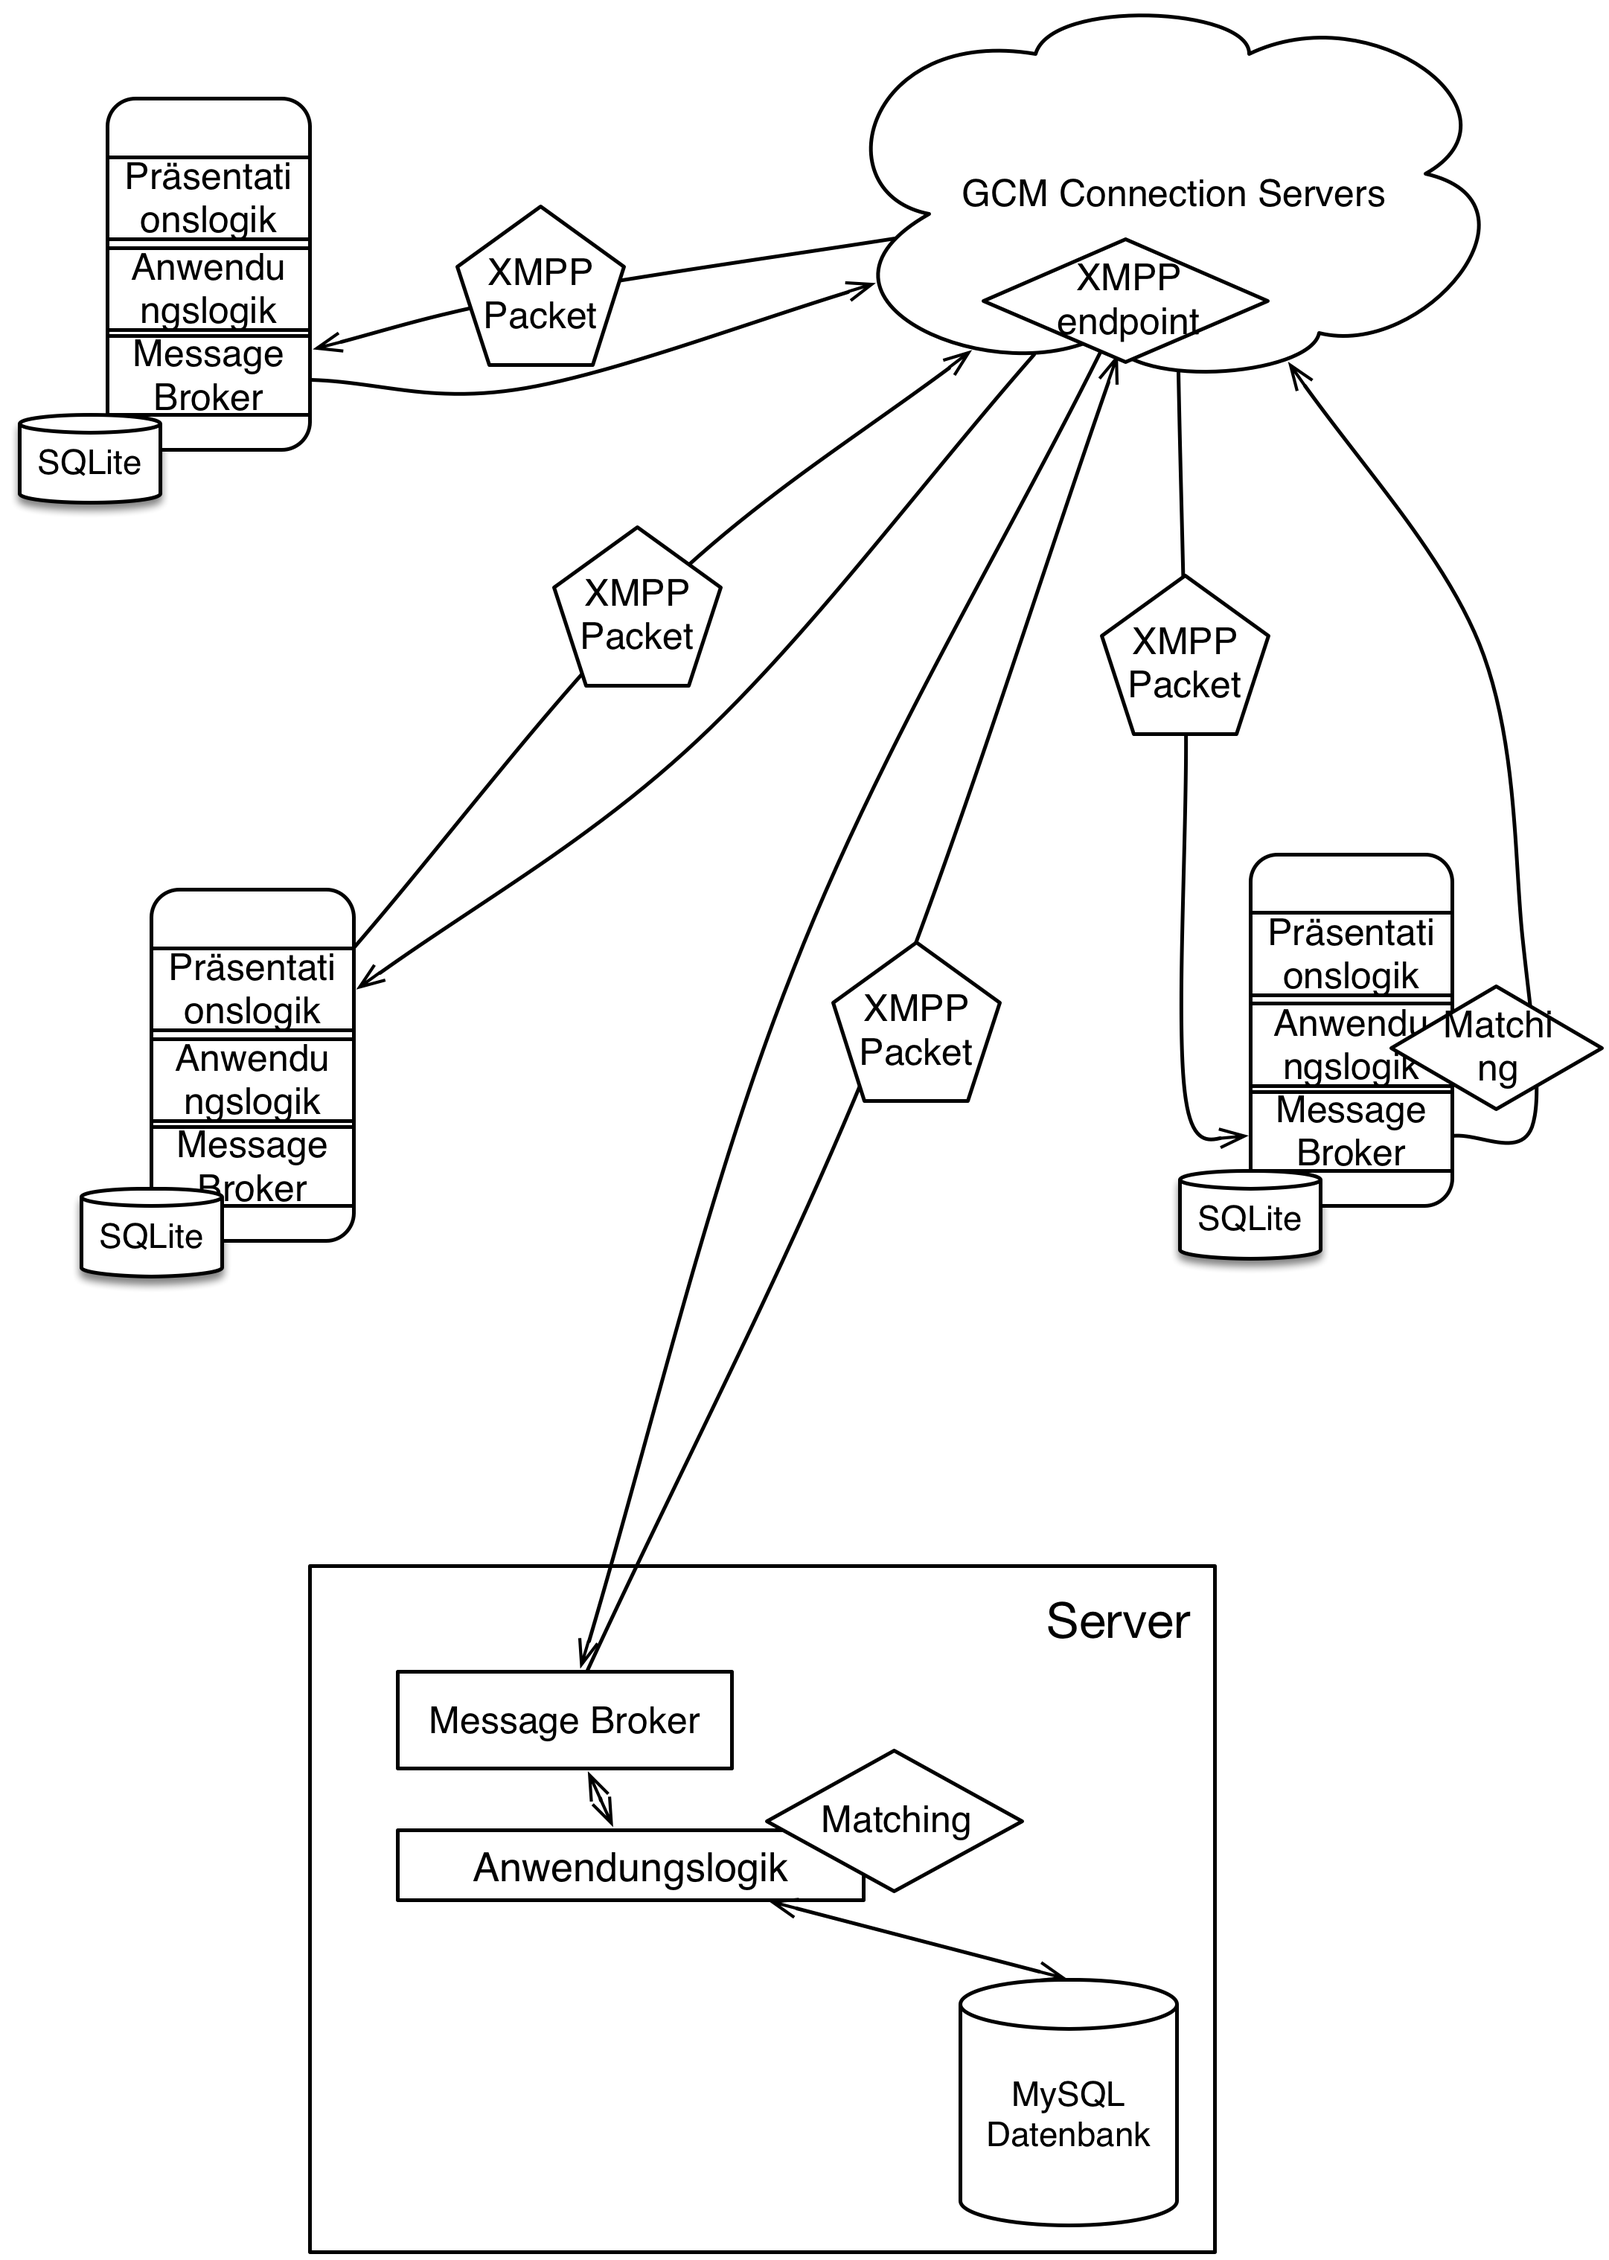
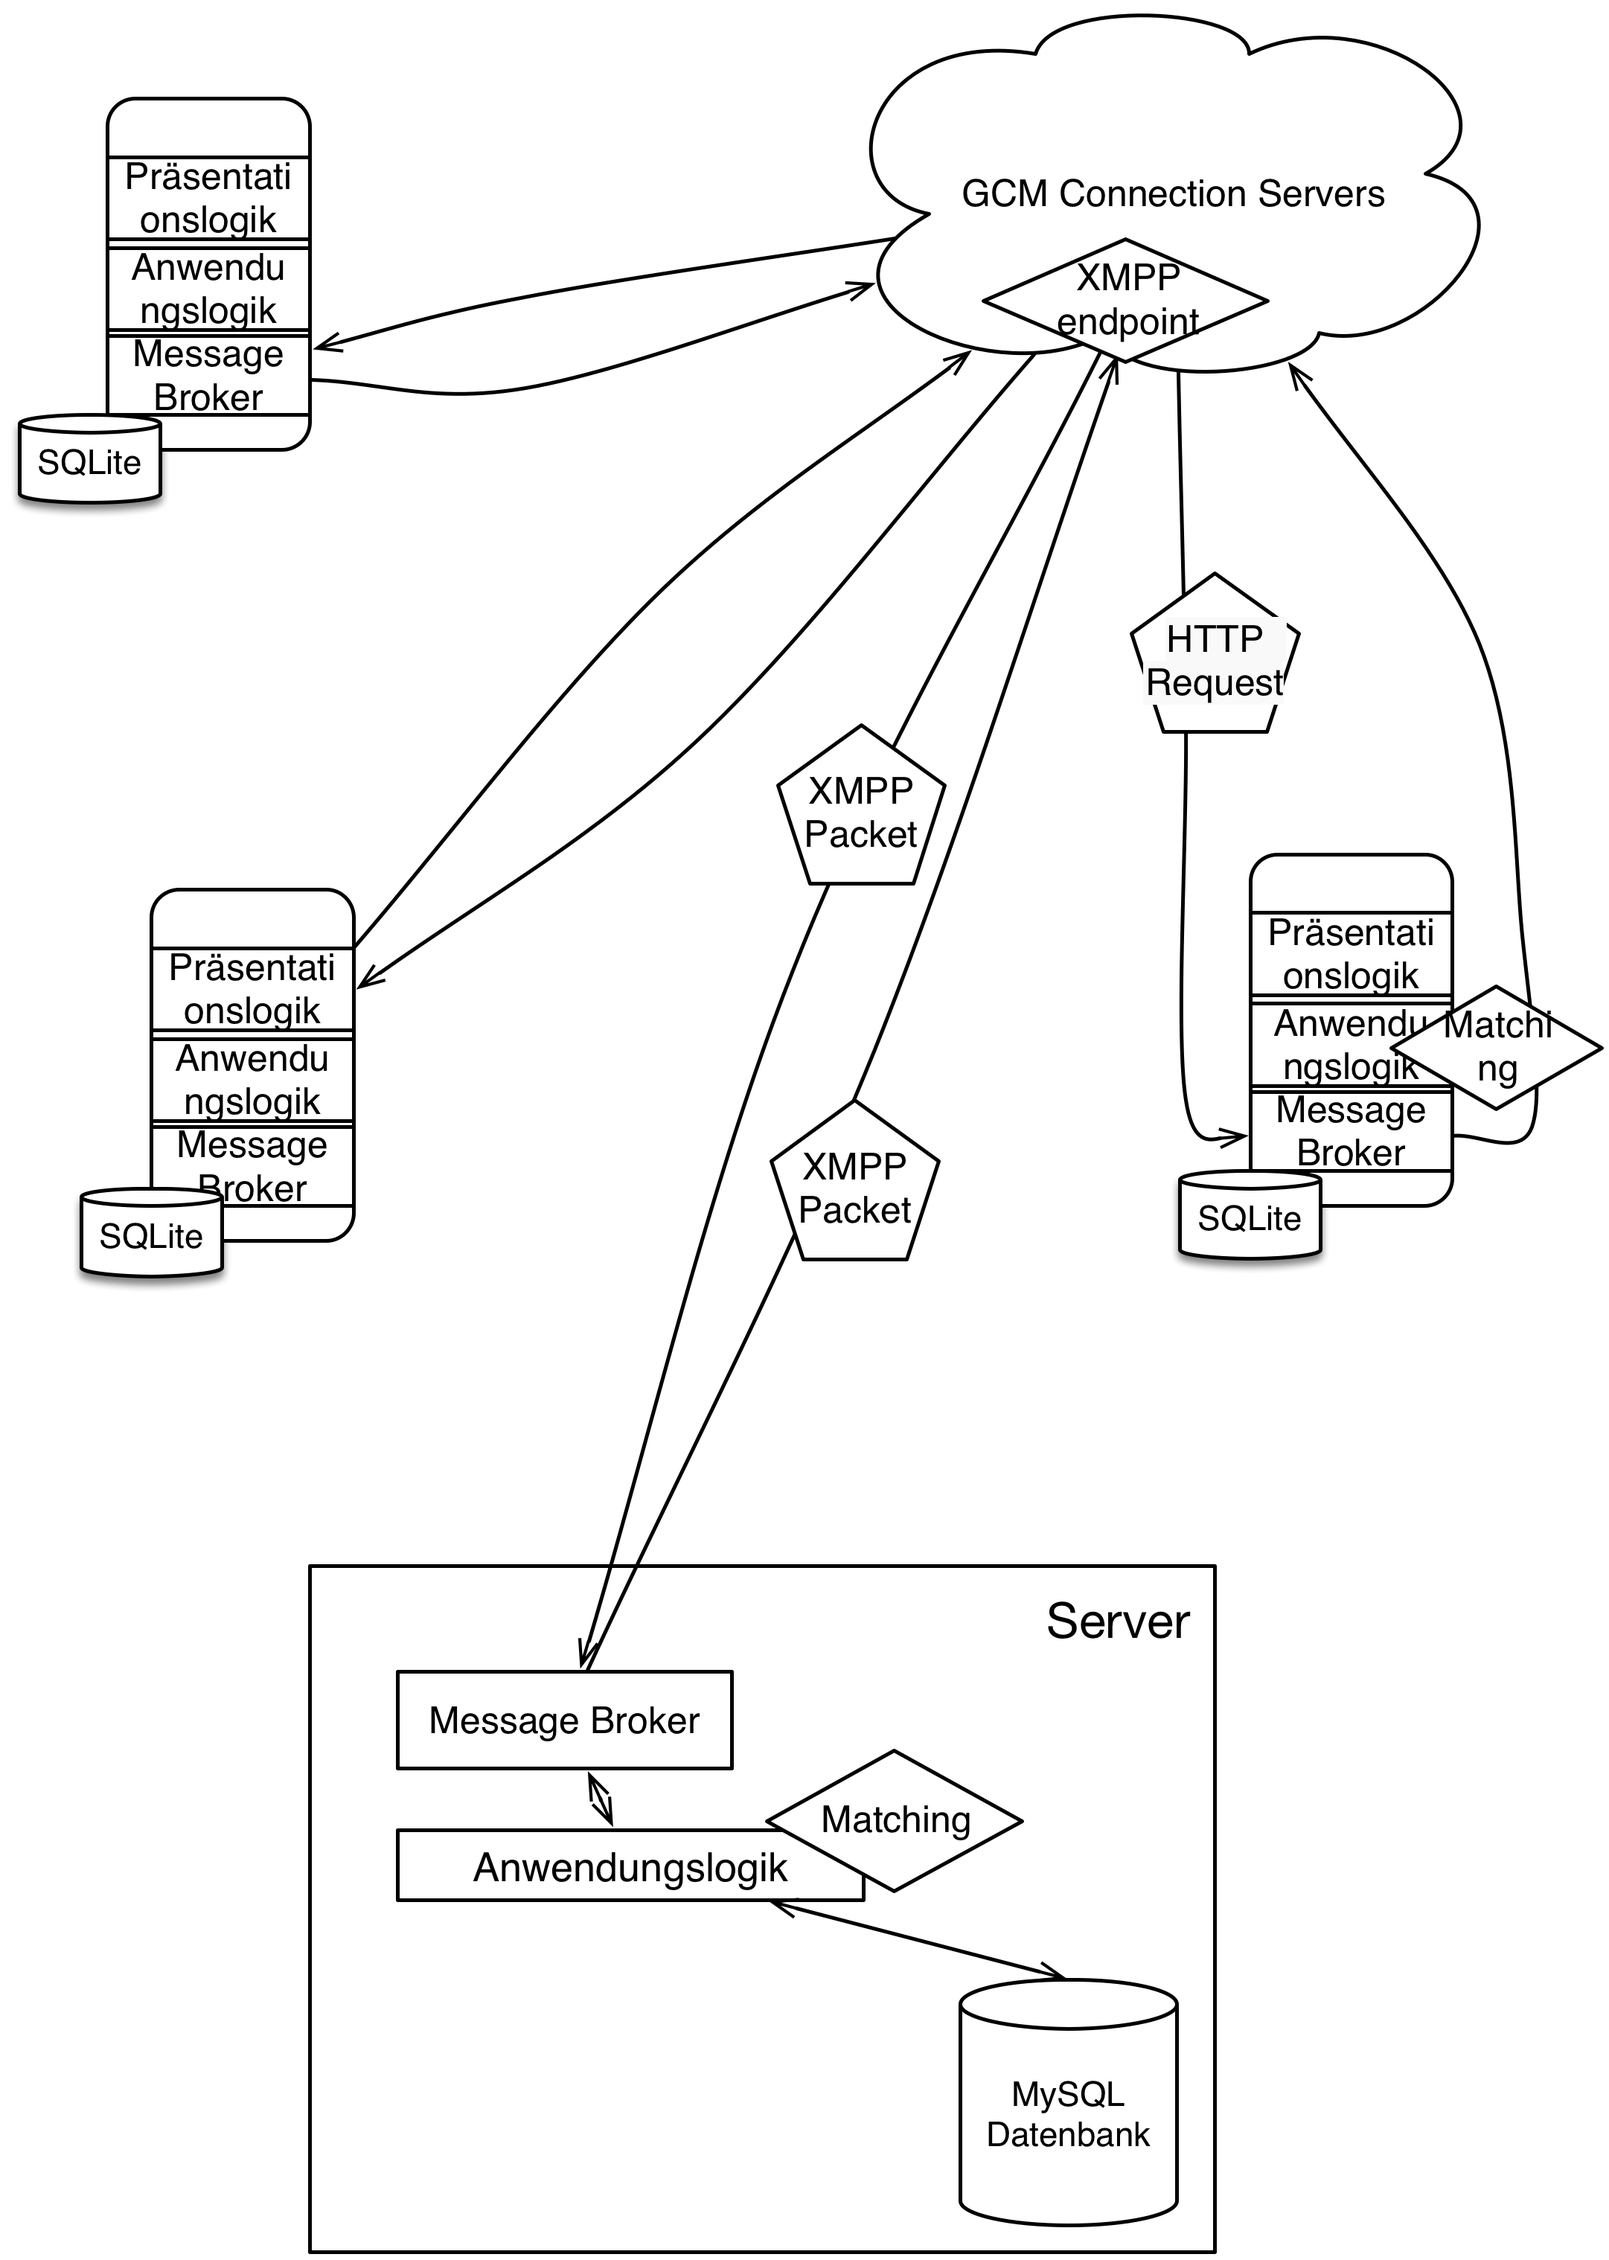
Systemdoku fertig

diff --git a/dokumentation/chapter/kapitel4_3_architektur.tex b/dokumentation/chapter/kapitel4_3_architektur.tex
@@ -6,7 +6,11 @@ Im Konzept wurde bereits ein Kommunikationsablauf\footnote{Konzeptkapitel 4.1 Se
 
 Der Kommunikationsablauf ging davon aus, dass kein Rückkanal bei Google Cloud Messaging verfügbar ist. Auf Grund dieser Annahme wurde neben GCM eine weitere Schnittstelle eingeplant, welche auf dem REST Paradigma basierte. Die dadurch nur mögliche synchrone Interaktion ist jedoch eine großer Nachteil für die geplanten Features gewesen. Außerdem kann die Wartung von zwei Architekturen auf längere Zeit zu Problemem führen.\\
 
-Durch die bidirektionale Verbindung (siehe Abb. \ref{fg:gcmccsarchitecture}) zwischen Client und Server bzw Server und Client kann der Google Dienst „GCM Cloud Connection Server“ die aufgeführte Problematik lösen.
+Durch die bidirektionale Verbindung zwischen Client und Server bzw Server und Client kann der Google Dienst „GCM Cloud Connection Server“ die aufgeführte Problematik lösen.
+
+In der neuen Systemarchitektur (vgl Abb. \ref{fg:gcmccsarchitecture}) ist die REST Schnittstelle entfernt worden und jedes Endgerät hat einen Rückkanal zu den GCM Connection Servern bekommen. Auch unser Serverinfrastruktur hat nun einen direkten Zugriff über eine XMPP Verbindung zu dem GCM Endpoint. Hierbei werden die die Daten im JSON Format in einem XMPP Paket verschickt.
+
+Die Serverdatenbank wird auf dem MySQL Datenbanksystem aufgebaut (siehe hierzu auch Kapitel „Entwickeltes System“). Als weitere Ergänzung gegeüber dem Konzept ist der Message Broker, welcher die verschiedenen Nachrichtentypen an den zugehörigen Controller - optional gebündelt - weiterleitet.
 
 \begin{figure}[H]
 	\centering

diff --git a/dokumentation/chapter/kapitel4_1_allgemeines.tex b/dokumentation/chapter/kapitel4_1_allgemeines.tex
@@ -2,15 +2,17 @@
 
 \section{Ergebnisse des anwendungszentrierten Gestaltungsprozesses}
 
-\input{chapter/kapitel4_1_1_zielsetzung.tex}
+Die konzeptionellen Auseinandersetzungen als Grundlage des Entwickelten Systems sind in einer überarbeiten Form im Konzept vorhanden und umfassen die Themen Zielsetzung, Benutzer(gruppen)/ Stakeholder  sowie funktionale/qualitative/organisationale Anforderungen. An dieser Stelle wird auf das Konzept-Kapitel 3.4, Seite 22 sowie Konzept-Kapitel 6, Seite 39 verwiesen.
 
-\newpage
+%\input{chapter/kapitel4_1_1_zielsetzung.tex}
 
-\input{chapter/kapitel4_1_2_nutzungskontext.tex}
+%\newpage
 
-\newpage
+%\input{chapter/kapitel4_1_2_nutzungskontext.tex}
 
-\input{chapter/kapitel4_1_3_nutzungsanforderungen.tex}
+%\newpage
+
+%\input{chapter/kapitel4_1_3_nutzungsanforderungen.tex}
 
 \newpage
 

diff --git a/dokumentation/inc/anhang.tex b/dokumentation/inc/anhang.tex
@@ -306,7 +306,7 @@
  \newpage
  %Konzeptpdf einbinden
 \chapter{Konzept}
- Nachfolgend das überarbeitete Konzept
+ Nachfolgend das überarbeitete Konzept.
  \includepdf[pages=1-, scale=1]{../konzept/konzept.pdf}
 
 
